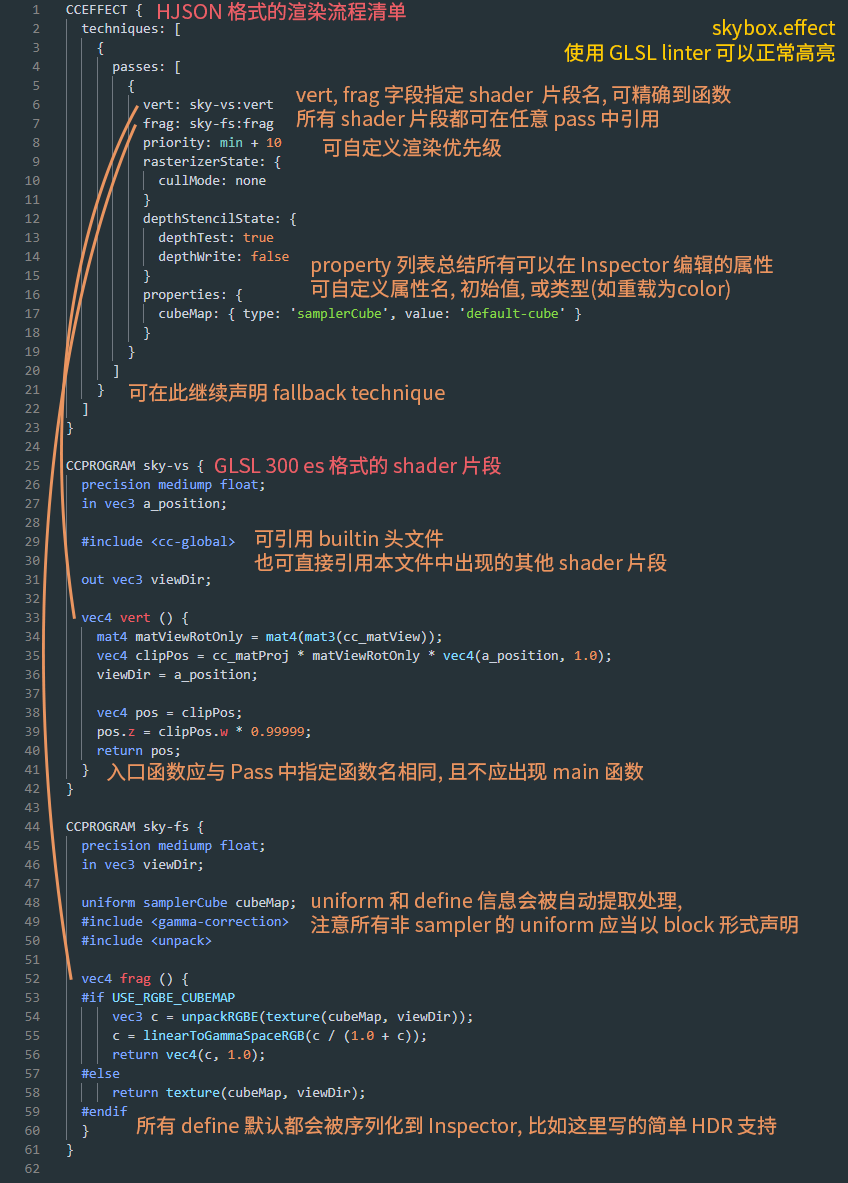
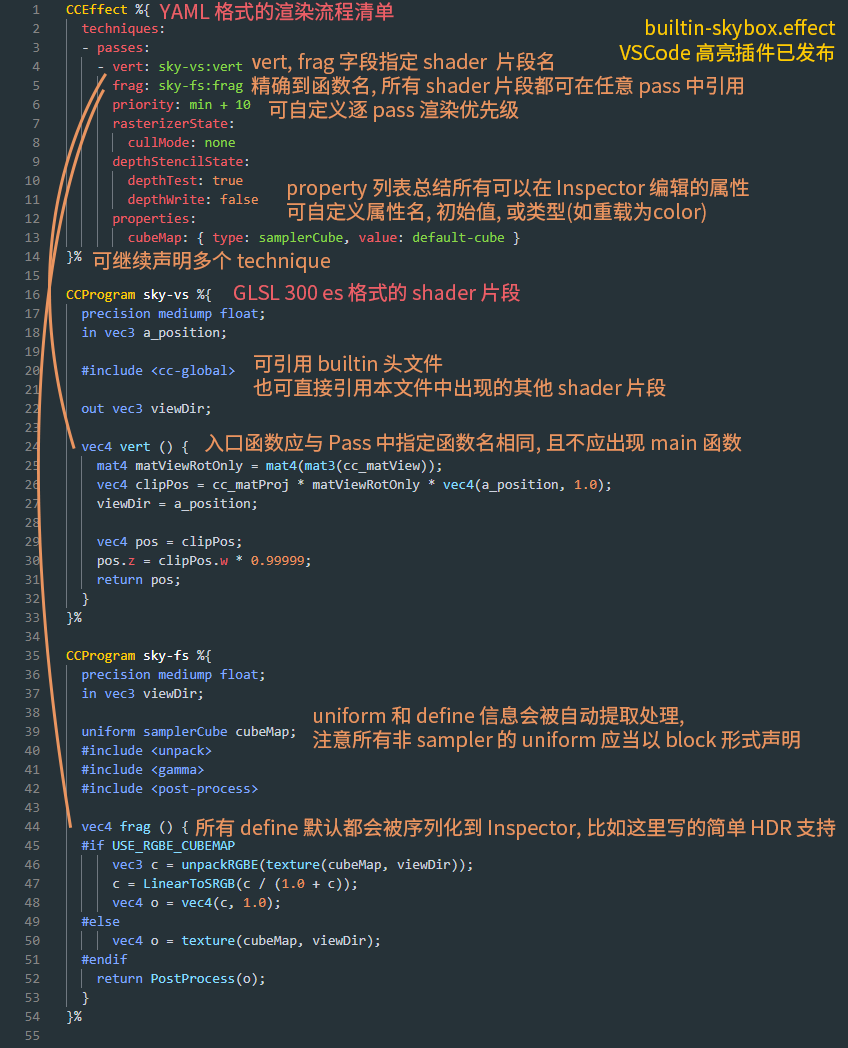
update effect

Changed region(s): [[0.0307, 0.0, 0.9811, 1.0], [0.5212, 0.5496, 0.6439, 0.5802], [0.6745, 0.5496, 0.7052, 0.5802]]

diff --git a/zh/material-system/effect-syntax.md b/zh/material-system/effect-syntax.md
@@ -1,7 +1,7 @@
 # Effect 语法
 
 如果希望在引擎中实现自定义的着色效果, 需要书写自定义 Effect.<br>
-一个 Effect 文件大体可以分为两部分的内容, 一份 JSON 格式<sup>[1](#footnote-1)</sup>的流程控制清单, 和相关的 (类)GLSL 语法的 shader 片段.<br>
+一个 Effect 文件大体可以分为两部分的内容, 一份 YAML 格式的流程控制清单, 和相关的 (类)GLSL 语法的 shader 片段.<br>
 这两部分内容上相互补充, 共同构成了一个完整的渲染流程描述.
 
 ## 语法框架
@@ -33,14 +33,15 @@ Effect 系统的设计倾向于在游戏项目运行时可以方便地利用 sha
 注意如果在 shahder 中声明了 extension, 这个 extension 必须有且只有一个 define 来控制启用与否.
 
 ### numeric define tag
-对数字类型的 define, 可以这样规定它的取值范围: (这个范围在满足需求情况下越小越好, 因为和 [program key](https://github.com/cocos-creator/engine/blob/3d/cocos/renderer/core/program-lib.ts) 相关)
+对数字和字符串类型的 define, 可以在 pragma 中使用 range 和 options tag 规定它的取值范围或可用选项:
 ```glsl
-#pragma range(0, 4) NUM_POINT_LIGHTS
+#pragma define NUM_POINT_LIGHTS range([0, 4])
+#pragma define METALLIC_SOURCE options([r, g, b, a])
 ```
 
-### define code segments
-也可以通过宏直接定义代码片段, 并可多层嵌套, 如:
-```glsl
+### functional macros
+我们提供函数式预处理宏，可用于快速声明格式相近代码：
+```c
 #define DECL_CURVE_STRUCT(name) \
   uniform int u_##name##_curveMode;
 #define DECL_CURVE_STRUCT_INT(name) \
@@ -60,6 +61,3 @@ DECL_CURVE_STRUCT_INT(velocity_pos_x)
 
 ### 关于 Uniform Block
 出于性能考量, 我们规定在 shader 中所有非 sampler 的 uniform 都应以 block 形式声明, 并应满足每个 block member 16 字节对齐.
-
----
-<a name="footnote-1">[1]</a> 准确地说引擎这里使用的是 HJSON parser, 所以这部份支持如注释, 省略引号逗号等所有 HJSON 格式写法.<br>

diff --git a/zh/material-system/pass-parameter-list.md b/zh/material-system/pass-parameter-list.md
@@ -37,6 +37,9 @@
 | depthStencilState.<br>stencilZFailOpBack    | **keep**, zero, replace, incr, incr_wrap, decr, decr_wrap, invert                |
 | depthStencilState.<br>stencilPassOpBack     | **keep**, zero, replace, incr, incr_wrap, decr, decr_wrap, invert                |
 | depthStencilState.<br>stencilRefBack        | **1** (as a number) or **0x1** (as a string) or **[0, 0, 0, 1]**                 |
+| depthStencilState.<br>stencilReadMask       | *convenient setter for both front/back stencil read mask,<br>always use this for web platforms*  |
+| depthStencilState.<br>stencilWriteMask      | *convenient setter for both front/back stencil write mask,<br>always use this for web platforms* |
+| depthStencilState.<br>stencilRef            | *convenient setter for both front/back stencil ref,<br>always use this for web platforms*        |
 | dynamics                                    | **[]**, an array containing any of the following:<br>viewport, scissor, line_width, depth_bias, blend_constants,<br>depth_bounds, stencil_write_mask, stencil_compare_mask |
 | property                                    | *see the following section                                                       |
 
